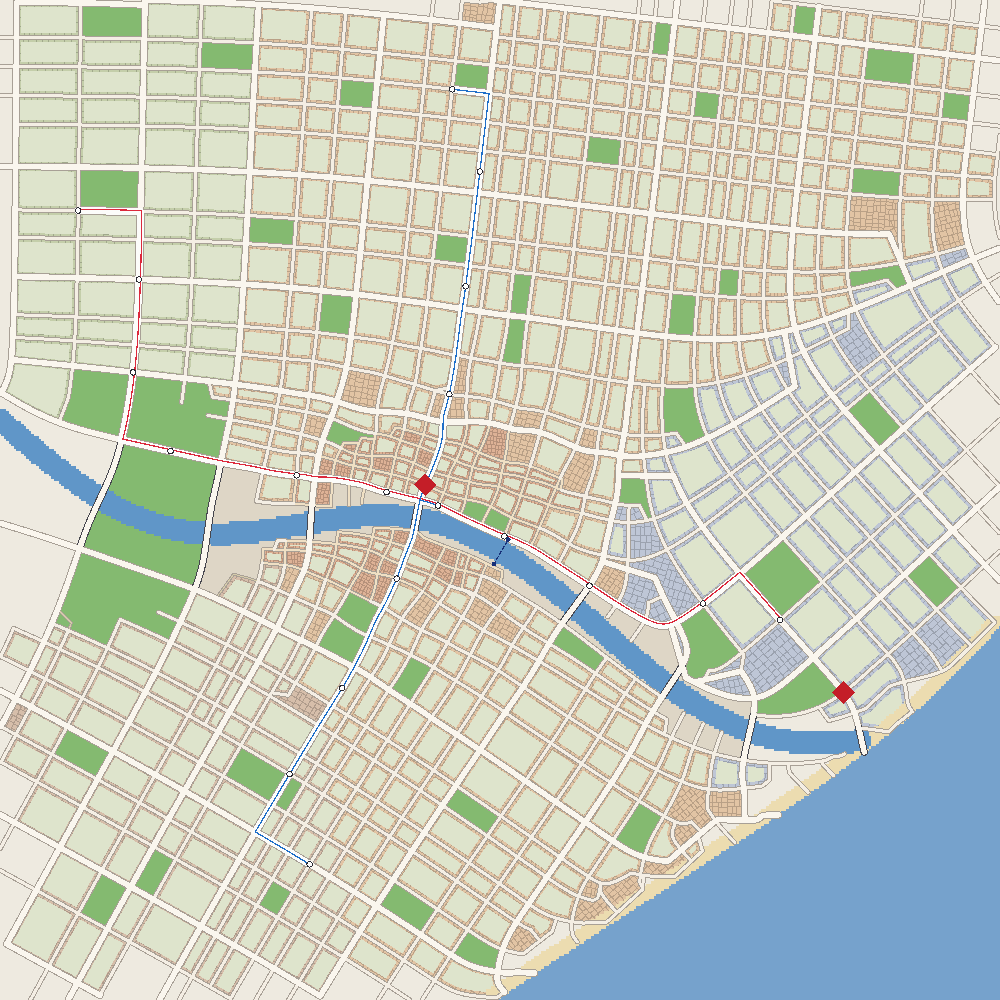
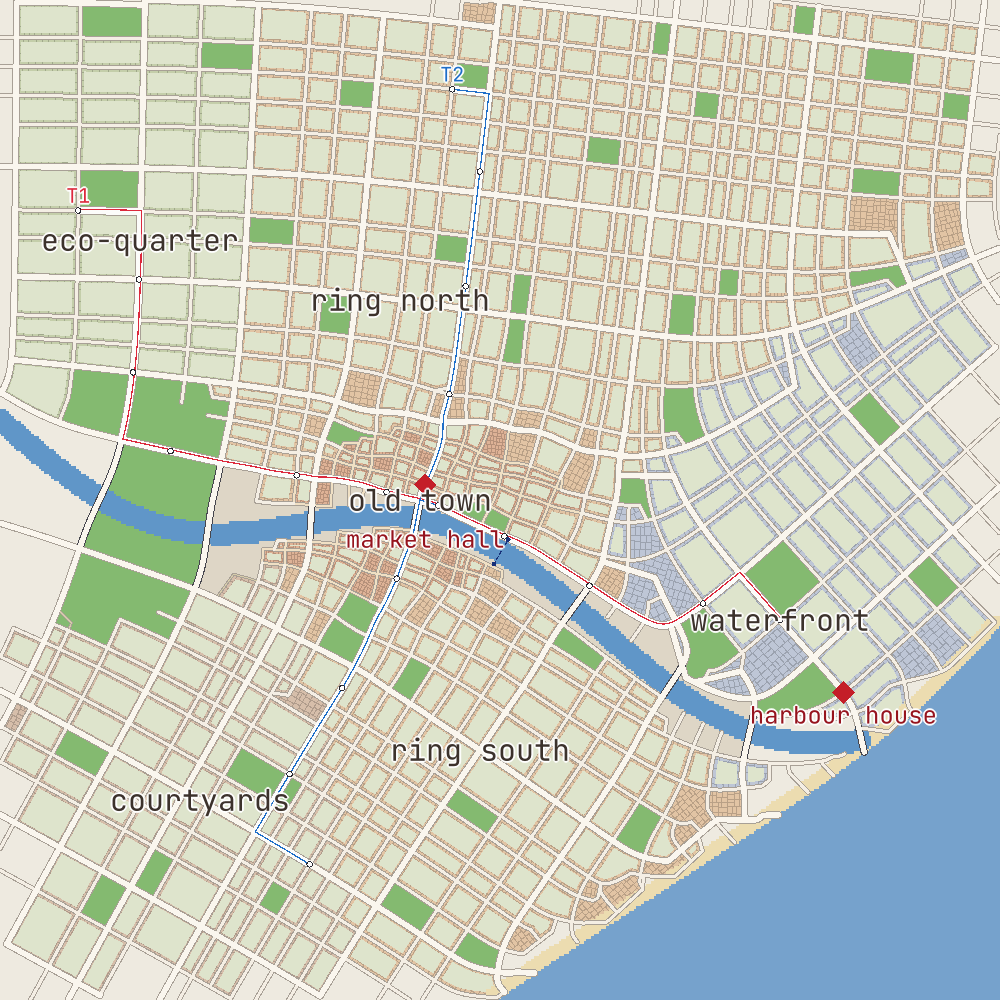
City maps: the districts', landmarks' and lines' names
map::labels gives a plan's own names (districts at their anchors, landmarks by
their marks, each tram line at its first stop); map::write_labelled draws them
in a TTF (the engine's JetBrains Mono) over a white halo, moving a label down a
line when it would overlap one drawn, or leaving it out. #245's labels.

diff --git a/crates/forge-procgen/src/city/map.rs b/crates/forge-procgen/src/city/map.rs
@@ -255,6 +255,18 @@ pub fn write(
     path: &Path,
     metres_per_pixel: f64,
 ) -> image::ImageResult<()> {
+    write_labelled(site, plan, path, metres_per_pixel, &[], None)
+}
+
+/// [`write`] with names drawn over the map in `font` (a TTF's bytes; none without one).
+pub fn write_labelled(
+    site: &Site,
+    plan: &CityPlan,
+    path: &Path,
+    metres_per_pixel: f64,
+    labels: &[Label],
+    font: Option<&[u8]>,
+) -> image::ImageResult<()> {
     let mut canvas = Canvas::new(plan.size, metres_per_pixel);
     let s = metres_per_pixel;
     paint_blocks(&mut canvas, plan);
@@ -317,7 +329,146 @@ pub fn write(
         ];
         canvas.fill(&diamond, [196, 30, 40]);
     }
+    if let Some(font) = font.and_then(|bytes| ab_glyph::FontRef::try_from_slice(bytes).ok()) {
+        let mut placed: Vec<[f32; 4]> = Vec::new();
+        for label in labels {
+            canvas.text(&font, label, &mut placed);
+        }
+    }
     canvas.save(path)
+}
+
+/// A name drawn on a map, centred on its place.
+#[derive(Clone, Debug, PartialEq)]
+pub struct Label {
+    /// Its place, metres on the plan.
+    pub pos: DVec2,
+    /// What it says.
+    pub text: String,
+    /// Its height, pixels.
+    pub px: f32,
+    /// Its colour.
+    pub colour: [u8; 3],
+}
+
+/// The plan's own names: its districts at their anchors (those on land in the frame), its
+/// landmarks beside their marks, and each tram line at its first stop.
+pub fn labels(plan: &CityPlan) -> Vec<Label> {
+    let mut out = Vec::new();
+    for d in &plan.districts {
+        let inside = d.anchor.min_element() >= 0.0 && d.anchor.max_element() <= plan.size;
+        if inside
+            && plan
+                .district_at(d.anchor)
+                .is_some_and(|at| at.name == d.name)
+        {
+            out.push(Label {
+                pos: d.anchor,
+                text: d.name.clone(),
+                px: 30.0,
+                colour: [60, 50, 44],
+            });
+        }
+    }
+    for l in &plan.landmarks {
+        out.push(Label {
+            pos: l.pos + DVec2::new(0.0, 90.0),
+            text: l.name.clone(),
+            px: 24.0,
+            colour: [150, 20, 30],
+        });
+    }
+    for line in &plan.tram_lines {
+        if let Some(&first) = line.stops.first() {
+            out.push(Label {
+                pos: first + DVec2::new(0.0, -60.0),
+                text: line.name.clone(),
+                px: 20.0,
+                colour: line.colour,
+            });
+        }
+    }
+    out
+}
+
+impl Canvas {
+    /// Blends `c` into a pixel by `coverage`.
+    fn blend(&mut self, x: i64, y: i64, c: [u8; 3], coverage: f32) {
+        if x < 0 || y < 0 || x as u32 >= self.side || y as u32 >= self.side {
+            return;
+        }
+        let p = &mut self.pixels[y as usize * self.side as usize + x as usize];
+        for k in 0..3 {
+            let a = f32::from(p[k]);
+            p[k] = (a + (f32::from(c[k]) - a) * coverage.clamp(0.0, 1.0)).round() as u8;
+        }
+    }
+
+    /// A label centred on its place, over a white halo. One that would overlap a label already
+    /// drawn (`placed`, pixel boxes) moves down a line, up to three times, or is left out.
+    fn text(&mut self, font: &ab_glyph::FontRef, label: &Label, placed: &mut Vec<[f32; 4]>) {
+        use ab_glyph::{Font, PxScale, ScaleFont, point};
+        let units_per_em = font.units_per_em().unwrap_or(1000.0);
+        let scale = PxScale::from(label.px * font.height_unscaled() / units_per_em);
+        let scaled = font.as_scaled(scale);
+        let width: f32 = label
+            .text
+            .chars()
+            .map(|c| scaled.h_advance(scaled.glyph_id(c)))
+            .sum();
+        let centre = (label.pos - self.origin) / self.metres_per_pixel;
+        let left = centre.x as f32 - width * 0.5;
+        let height = scaled.height();
+        let mut top = centre.y as f32 - height * 0.5;
+        let overlaps = |top: f32, placed: &[[f32; 4]]| {
+            placed
+                .iter()
+                .any(|b| left < b[2] && left + width > b[0] && top < b[3] && top + height > b[1])
+        };
+        let mut tries = 0;
+        while overlaps(top, placed) {
+            tries += 1;
+            if tries > 3 {
+                return;
+            }
+            top += height;
+        }
+        placed.push([left, top, left + width, top + height]);
+        let mut coverage = Vec::new();
+        let mut x = left;
+        for c in label.text.chars() {
+            let mut glyph = scaled.scaled_glyph(c);
+            glyph.position = point(x, top + scaled.ascent());
+            x += scaled.h_advance(glyph.id);
+            if let Some(outlined) = font.outline_glyph(glyph) {
+                let bounds = outlined.px_bounds();
+                outlined.draw(|gx, gy, v| {
+                    coverage.push((
+                        bounds.min.x as i64 + i64::from(gx),
+                        bounds.min.y as i64 + i64::from(gy),
+                        v,
+                    ));
+                });
+            }
+        }
+        for &(px, py, v) in &coverage {
+            for (dx, dy) in [
+                (-2, 0),
+                (2, 0),
+                (0, -2),
+                (0, 2),
+                (-1, -1),
+                (1, 1),
+                (-1, 1),
+                (1, -1),
+            ] {
+                self.blend(px + dx, py + dy, [255, 255, 255], v * 0.85);
+            }
+        }
+        for &(px, py, v) in &coverage {
+            self.blend(px, py, label.colour, v);
+        }
+    }
 }
 
 /// Water and beaches from the site's mask, over the blocks (a quay's face holds its river).

diff --git a/tools/city-map/src/main.rs b/tools/city-map/src/main.rs
@@ -44,7 +44,10 @@ fn main() -> Result<()> {
     println!("{:#?}", plan.stats);
     let path = args.out.join("plan.png");
     let t = Instant::now();
-    city::map::write(&site, &plan, &path, args.scale).context("writing the map")?;
+    let font = std::fs::read("assets/fonts/jetbrains-mono/JetBrainsMono-Variable.ttf").ok();
+    let labels = city::map::labels(&plan);
+    city::map::write_labelled(&site, &plan, &path, args.scale, &labels, font.as_deref())
+        .context("writing the map")?;
     println!(
         "map: {} in {:.0} ms",
         path.display(),

diff --git a/docs/demos/city-plan.md b/docs/demos/city-plan.md
@@ -33,7 +33,7 @@ cargo run --release -p city-map -- --size 4000 --scale 2 --out captures/city
 | Forest | ground above a height or steeper than a slope goes to the first reserve district (a real site's hills) | `city::district_field` |
 | Transit | tram lines by the shortest path through their waypoints, main roads preferred (a waypoint far from any main road snaps to the nearest street); stops every 450 m moved to nearby junctions; lines added until a target share of blocks has a stop within 400 m (`transit::cover`); boat crossings where a river runs long without a bridge; street profiles (tram avenue, avenue, shared, pedestrian, path) | `city::transit` |
 | Masses | each lot's building: the lot cut by the building line of each street it touches, less the courtyard's hull (or a building's depth along its street where no courtyard fits); floors from the district's range, capped by the street's profile; green, solar or terrace roofs | `city::mass` |
-| Maps and numbers | a small rasteriser: the plan, a checks map (blocks by what they lack), an oblique massing view of any window; the plan's numbers and its digest | `city::map` |
+| Maps and numbers | a small rasteriser: the plan (with the districts', landmarks' and lines' names in the engine's font, kept from overlapping), a checks map (blocks by what they lack), an oblique massing view of any window; the plan's numbers and its digest | `city::map` |
 
 Everything is a pure function of the site and the parameters. Costs are integers in the
 router, and `forge_core::dmath` does the trigonometry. Two runs give the same digest (D-016).
@@ -109,6 +109,6 @@ from the site's cells. A private sandbox hands its own plan to `PlanScenario::ne
 
 - Building lines per street profile.
 - Squares at the radial districts' centres; the landmarks' sightlines.
-- More checks on the checks map; a legend and labels.
+- More checks on the checks map; a legend.
 - The style bible as data (#246).
 - Then buildings from the grammar (D-039, #247).

diff --git a/docs/credits-crates.md b/docs/credits-crates.md
@@ -42,7 +42,7 @@ Generated by `cargo run -p credits` from `cargo metadata`: every crate the works
 
 Where Forge uses them:
 
-- `ab_glyph`: forge-app
+- `ab_glyph`: forge-app, forge-procgen
 - `anyhow`: asteroids, city-blocks, city-map, city-plan, contact-sheet, credits, forge-app, forge-terrain, genesis, imgdiff, island, meshlets, physics-lab, planet, sharpness
 - `ash`: forge-gpu
 - `ash-window`: forge-gpu
